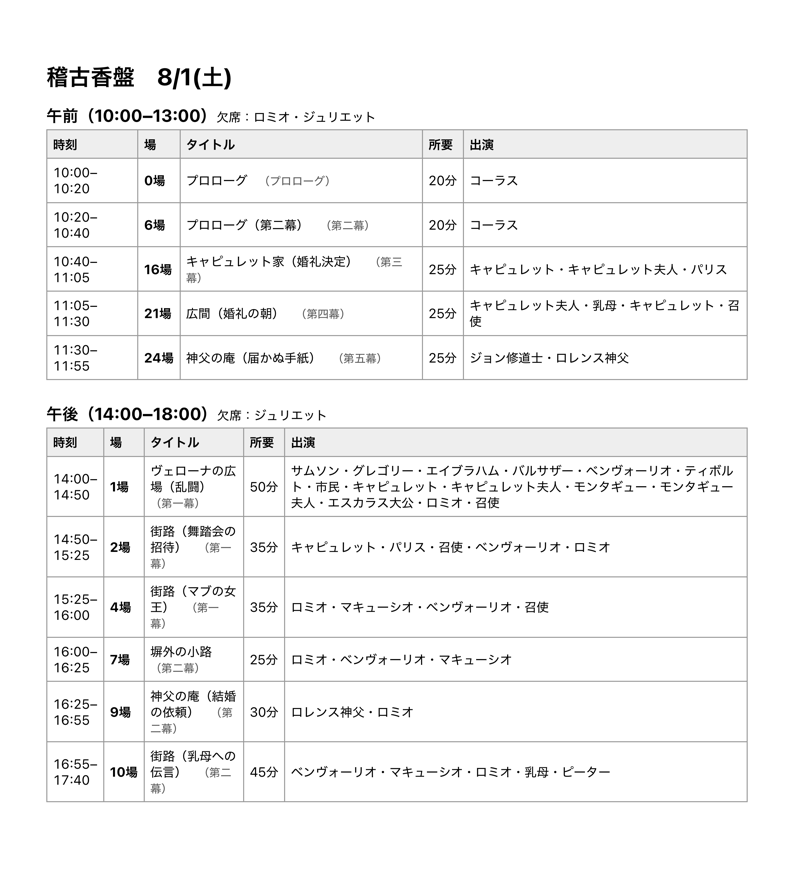
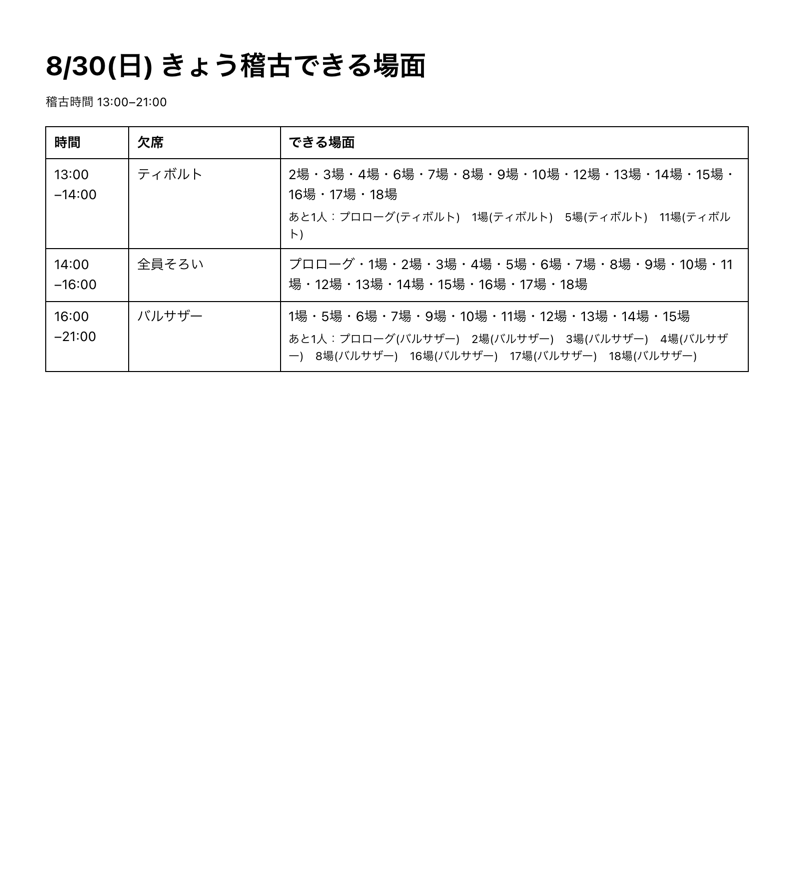
香盤メーカー：中身を2代目（てっぱりボード）に。スクショは全部撮り直し（仮データ）
・紹介ページの中身を V2 に更新（名前は「香盤メーカー」のまま）
  - 冒頭：終日の欠席だけでなく「◯時入り／◯時出し」と時間帯ごとの判定を説明
  - 制作の背景：現場で分かったこと→2代目、の段落を追加
  - STORY の ACTION／RESULT を、時間帯判定・あと1人・進み具合の話に更新
・プレビューを5枚とも撮り直し（スマホ600×1298／PC1200×750／PDF794×878）
  キャスト登録／場面登録／てっぱり表／香盤表／時間帯ごとにできる場面
・⚠ 掲載画像のデータは全部「架空」。実案件の initial-data.json は一切使わず、
  『ロミオとジュリエット』（著作権切れ）の仮データを別ビルドに差し替えて撮影。
  お客様の公演名がUIのプレースホルダに入っていたのも、掲載用ビルドでは差し替え済み。
・ページ末尾に「お客様の声はこちら」ボタンを設置（#voice へ）
・style.css?v=94 → 95（前回のCSS変更でバージョンを上げ忘れており、
  キャッシュを持つ人に旧CSSが当たっていた）
・320px幅で .app-feature / .app-group-cards の列が固定340/320pxのまま溢れていたのを
  minmax(min(340px,100%),1fr) で修正（従来からの不具合）
・全21画面 × 8幅（320〜1920）で はみ出し0・横スクロール0 を実測

diff --git a/index.html b/index.html
@@ -12,7 +12,7 @@
 <link rel="preconnect" href="https://fonts.googleapis.com">
 <link rel="preconnect" href="https://fonts.gstatic.com" crossorigin>
 <link href="https://fonts.googleapis.com/css2?family=Zen+Maru+Gothic:wght@400;500;700&display=swap" rel="stylesheet">
-<link rel="stylesheet" href="style.css?v=94">
+<link rel="stylesheet" href="style.css?v=95">
 <link rel="icon" type="image/png" href="icons/icon-index.png?v=2">
 <link rel="apple-touch-icon" href="icons/icon-index.png?v=2">
 <meta name="apple-mobile-web-app-title" content="つみき">
@@ -474,7 +474,7 @@
           <img class="app-card-ico" src="assets/icon-kouban.png?v=1" alt="香盤メーカー アイコン" width="72" height="72" loading="lazy">
           <span class="app-card-body">
             <span class="app-card-name">香盤メーカー</span>
-            <span class="app-card-desc">稽古のNGから「今日できる場面」を出す</span>
+            <span class="app-card-desc">出られない日から「今できる場面」を出す</span>
             <span class="app-card-tags"><span class="app-tag">スケジュール</span><span class="app-tag">舞台・稽古</span></span>
           </span>
           <span class="app-card-ar" aria-hidden="true">→</span>
@@ -551,29 +551,29 @@
       </div>
 
       <!-- ① 簡潔な紹介 -->
-      <p class="as-about">稽古に来られないメンバーを選ぶと、その日に<strong>「今日できる場面」だけ</strong>を香盤表からすっと抜き出す道具。限られた稽古時間を、段取りで悩まずに使い切るためのアプリです。</p>
+      <p class="as-about">出られない日と、その日の出入り（◯時入り／◯時出し）を入れておくと、<strong>その時間にできる場面だけ</strong>を香盤表からすっと抜き出す道具。「あと1人そろえばできる場面」まで出るので、交渉の当たりどころも分かります。限られた稽古時間を、段取りで悩まずに使い切るためのアプリです。</p>
 
       <!-- 制作の背景 -->
       <p class="as-h">制作の背景<span class="as-h-en">BACKGROUND</span></p>
-      <p class="as-bg">もともと、稽古の現場では「今日は誰が来られないか」が分かるたびに、香盤表とにらめっこして『じゃあ今日はどの場面をやろう』と組み直していました。この照合が毎回じわじわ時間を食い、稽古の頭出しでもたついてしまう。<br><br>その<strong>“段取りのストレス”をなくすために、香盤メーカーは生まれました。</strong>欠席者を選ぶだけで「今日できる場面」が出るなら、迷っていた時間はまるごと稽古に回せる——そう考えて形にした一本です。</p>
+      <p class="as-bg">もともと、稽古の現場では「今日は誰が来られないか」が分かるたびに、香盤表とにらめっこして『じゃあ今日はどの場面をやろう』と組み直していました。この照合が毎回じわじわ時間を食い、稽古の頭出しでもたついてしまう。<br><br>その<strong>“段取りのストレス”をなくすために、香盤メーカーは生まれました。</strong>欠席者を選ぶだけで「今日できる場面」が出るなら、迷っていた時間はまるごと稽古に回せる——そう考えて形にした一本です。<br><br>そのあと実際の稽古場でお使いいただくうちに、分かったことがありました。<strong>休みは終日だけではない</strong>——「◯時入り」「◯時出し」がある。そして<strong>稽古時間を前半・後半で区切ると、できる場面が変わる</strong>。いまの香盤メーカーは、その現場の声をそのまま入れた<strong>2代目</strong>です。出られない日の表（てっぱり表）をアプリの中に持ち、時間帯ごとに判定し、稽古全体の進み具合まで見えるようにしました。</p>
 
       <!-- ② プレビュー（スマホ5＋PC5） -->
       <p class="as-h">プレビュー<span class="as-h-en">PREVIEW</span></p>
       <p class="pv-group-k">スマホ版<span class="pv-group-en">iPhone</span></p>
       <div class="as-shots">
-        <figure class="as-shot"><div class="pv pv-ph"><img class="pv-img" src="assets/shots/kouban-ph-setup.png?v=1" alt="香盤メーカーの役登録画面" loading="lazy" width="600" height="1298"></div><figcaption>役を登録</figcaption></figure>
-        <figure class="as-shot"><div class="pv pv-ph"><img class="pv-img" src="assets/shots/kouban-ph-scene.png?v=1" alt="香盤メーカーの場面登録画面" loading="lazy" width="600" height="1298"></div><figcaption>場面と出る役を登録</figcaption></figure>
-        <figure class="as-shot"><div class="pv pv-ph"><img class="pv-img" src="assets/shots/kouban-ph-days.png?v=1" alt="香盤メーカーの稽古日・時間帯登録画面" loading="lazy" width="600" height="1298"></div><figcaption>稽古日と時間帯を登録</figcaption></figure>
-        <figure class="as-shot"><div class="pv pv-ph"><img class="pv-img" src="assets/shots/kouban-ph-today.png?v=1" alt="香盤メーカーの出欠入力画面" loading="lazy" width="600" height="1298"></div><figcaption>欠席をタップで入力</figcaption></figure>
-        <figure class="as-shot"><div class="pv pv-ph"><img class="pv-img" src="assets/shots/kouban-ph-ban.png?v=1" alt="香盤メーカーの香盤自動生成画面" loading="lazy" width="600" height="1298"></div><figcaption>香盤を自動生成</figcaption></figure>
+        <figure class="as-shot"><div class="pv pv-ph"><img class="pv-img" src="assets/shots/kouban-ph-cast.png?v=2" alt="香盤メーカーのキャスト（役）の登録画面" loading="lazy" width="600" height="1298"></div><figcaption>キャストを登録</figcaption></figure>
+        <figure class="as-shot"><div class="pv pv-ph"><img class="pv-img" src="assets/shots/kouban-ph-scene.png?v=2" alt="香盤メーカーの台本の場面の登録画面" loading="lazy" width="600" height="1298"></div><figcaption>台本の場面を登録</figcaption></figure>
+        <figure class="as-shot"><div class="pv pv-ph"><img class="pv-img" src="assets/shots/kouban-ph-board.png?v=2" alt="香盤メーカーのてっぱり表（出られない日）の入力画面" loading="lazy" width="600" height="1298"></div><figcaption>出られない日を、表に入れる</figcaption></figure>
+        <figure class="as-shot"><div class="pv pv-ph"><img class="pv-img" src="assets/shots/kouban-ph-kouban.png?v=2" alt="香盤メーカーの香盤表（場面ごとの出番）の画面" loading="lazy" width="600" height="1298"></div><figcaption>今日できる場面が、色でわかる</figcaption></figure>
+        <figure class="as-shot"><div class="pv pv-ph"><img class="pv-img" src="assets/shots/kouban-ph-day.png?v=2" alt="香盤メーカーの時間帯ごとにできる場面を出した画面" loading="lazy" width="600" height="1298"></div><figcaption>時間帯ごとに、できる場面を出す</figcaption></figure>
       </div>
       <p class="pv-group-k">PC版<span class="pv-group-en">Desktop</span></p>
       <div class="as-shots">
-        <figure class="as-shot as-shot-pc"><div class="pv pv-pc"><img class="pv-img" src="assets/shots/kouban-pc-setup.png?v=1" alt="香盤メーカー PC版の役登録画面" loading="lazy" width="1200" height="750"></div><figcaption>役を登録</figcaption></figure>
-        <figure class="as-shot as-shot-pc"><div class="pv pv-pc"><img class="pv-img" src="assets/shots/kouban-pc-scene.png?v=1" alt="香盤メーカー PC版の場面登録画面" loading="lazy" width="1200" height="750"></div><figcaption>場面と出る役を登録</figcaption></figure>
-        <figure class="as-shot as-shot-pc"><div class="pv pv-pc"><img class="pv-img" src="assets/shots/kouban-pc-days.png?v=1" alt="香盤メーカー PC版の稽古日・時間帯登録画面" loading="lazy" width="1200" height="750"></div><figcaption>稽古日と時間帯を登録</figcaption></figure>
-        <figure class="as-shot as-shot-pc"><div class="pv pv-pc"><img class="pv-img" src="assets/shots/kouban-pc-today.png?v=1" alt="香盤メーカー PC版の出欠入力画面" loading="lazy" width="1200" height="750"></div><figcaption>欠席をタップで入力</figcaption></figure>
-        <figure class="as-shot as-shot-pc"><div class="pv pv-pc"><img class="pv-img" src="assets/shots/kouban-pc-ban.png?v=1" alt="香盤メーカー PC版の香盤自動生成画面" loading="lazy" width="1200" height="750"></div><figcaption>香盤を自動生成</figcaption></figure>
+        <figure class="as-shot as-shot-pc"><div class="pv pv-pc"><img class="pv-img" src="assets/shots/kouban-pc-cast.png?v=2" alt="香盤メーカー PC版のキャスト（役）の登録画面" loading="lazy" width="1200" height="750"></div><figcaption>キャストを登録</figcaption></figure>
+        <figure class="as-shot as-shot-pc"><div class="pv pv-pc"><img class="pv-img" src="assets/shots/kouban-pc-scene.png?v=2" alt="香盤メーカー PC版の台本の場面の登録画面" loading="lazy" width="1200" height="750"></div><figcaption>台本の場面を登録</figcaption></figure>
+        <figure class="as-shot as-shot-pc"><div class="pv pv-pc"><img class="pv-img" src="assets/shots/kouban-pc-board.png?v=2" alt="香盤メーカー PC版のてっぱり表（出られない日）の入力画面" loading="lazy" width="1200" height="750"></div><figcaption>出られない日を、表に入れる</figcaption></figure>
+        <figure class="as-shot as-shot-pc"><div class="pv pv-pc"><img class="pv-img" src="assets/shots/kouban-pc-kouban.png?v=2" alt="香盤メーカー PC版の香盤表（場面ごとの出番）の画面" loading="lazy" width="1200" height="750"></div><figcaption>今日できる場面が、色でわかる</figcaption></figure>
+        <figure class="as-shot as-shot-pc"><div class="pv pv-pc"><img class="pv-img" src="assets/shots/kouban-pc-day.png?v=2" alt="香盤メーカー PC版の時間帯ごとにできる場面を出した画面" loading="lazy" width="1200" height="750"></div><figcaption>時間帯ごとに、できる場面を出す</figcaption></figure>
       </div>
       <p class="note">実際の「香盤メーカー」の画面です（サンプルは『ロミオとジュリエット』）。</p>
 
@@ -581,11 +581,11 @@
       <p class="pv-group-k">書き出したPDF<span class="pv-group-en">OUTPUT</span></p>
       <div class="as-shots as-shots-solo">
         <figure class="as-shot as-shot-doc">
-          <div class="pv pv-doc pv-doc-kouban"><img class="pv-img" src="assets/shots/kouban-doc.png?v=1" alt="香盤メーカーで書き出した稽古香盤（PDF・サンプル）" loading="lazy" width="794" height="878"></div>
-          <figcaption>タップで拡大：稽古香盤（A4・時間帯ごとの場面と出演）</figcaption>
+          <div class="pv pv-doc pv-doc-kouban"><img class="pv-img" src="assets/shots/kouban-doc.png?v=2" alt="香盤メーカーで書き出した「きょう稽古できる場面」（PDF・サンプル）" loading="lazy" width="794" height="878"></div>
+          <figcaption>タップで拡大：きょう稽古できる場面（A4・稽古場に貼り出す用）</figcaption>
         </figure>
       </div>
-      <p class="note">「印刷／PDFで書き出し」を押すと、この香盤がそのまま1枚に。時間帯ごとに場面・所要時間・出演者、その回に来られない人（欠席）まで並びます。掲載はサンプル『ロミオとジュリエット』です。</p>
+      <p class="note">「印刷（貼り出し用）」を押すと、その日のぶんがそのまま1枚に。時間帯ごとに、欠席者・できる場面・あと1人でできる場面まで並びます。稽古場に貼っておけば、全員が同じものを見られます。掲載はサンプル『ロミオとジュリエット』です。</p>
 
       <!-- ③ STAR形式の詳しい紹介 -->
       <p class="as-h">くわしく<span class="as-h-en">STORY</span></p>
@@ -600,11 +600,11 @@
         </div>
         <div class="star-row">
           <p class="star-k">アプリがすること<span class="star-en">ACTION</span></p>
-          <p class="star-v">各場面の出演者（香盤表）を一度だけ登録。あとは欠席者を選ぶだけで、<strong>全員そろう＝今日できる場面</strong>を自動で抜き出して並べます。</p>
+          <p class="star-v">台本の場面と、そこに出る役（香盤）を一度だけ登録。あとは出られない日と「◯時入り／◯時出し」を入れるだけ。稽古時間を時間帯で区切って、<strong>その時間に全員そろう＝できる場面</strong>を自動で並べます。「あと1人そろえばできる場面」も、誰が足りないかと一緒に出ます。</p>
         </div>
         <div class="star-row is-result">
           <p class="star-k">こう変わる<span class="star-en">RESULT</span></p>
-          <p class="star-v">稽古の段取りが数秒で決まり、限られた時間を「今日できること」に集中できる。<strong>2026年夏の本多劇場公演で、実際にお使いいただきました。</strong></p>
+          <p class="star-v">稽古の段取りが数秒で決まり、限られた時間を「今日できること」に集中できる。先の稽古日まで並ぶので、<strong>その日になってから組み直すのではなく、先に最後まで組んでおける</strong>。全何場面のうち、できた／これからできる／このままだとできない、も一目で分かります。<strong>2026年夏の本多劇場公演で、実際にお使いいただきました。</strong></p>
         </div>
       </div>
 
@@ -618,6 +618,13 @@
           <div class="dl-row"><div class="dl-k">お渡し</div><div class="dl-v">プロダクトキー（合言葉）で解錠してお使いいただけます</div></div>
           <div class="dl-row"><div class="dl-k">本体</div><div class="dl-v"><a href="https://tools.tsumiki-apps.com/kouban-pro.html" target="_blank" rel="noopener">tools.tsumiki-apps.com/kouban-pro.html</a></div></div>
         </div>
+      </div>
+
+      <!-- ページの最後：実際にお使いいただいた方の声へ渡す -->
+      <div class="cta-wrap">
+        <p class="cta-lead">この香盤メーカーは、2026年夏の本多劇場公演で実際にお使いいただきました。演出助手の方から伺ったお話を、そのまま載せています。</p>
+        <a class="cta" data-go="voice" href="#">お客様の声はこちら<span class="cta-ar">→</span></a>
+        <p class="note">「こういうの、うちにも欲しい」と思ったら。あなたの“ちょっと困った”に合わせて、専用のアプリをお作りします。→ <a data-go="hearing" href="#">無料で相談する</a></p>
       </div>
     </div>
   </section>

diff --git a/style.css b/style.css
@@ -925,7 +925,8 @@ body.on-dark .tb-brand{color:#F4F2EE;
 /* カードは横長1列だと desktop(容器860〜960px)で右に空白が余るため、
    容器幅に応じて自動で段組み（スマホ=1列 / desktop=2列）にして横を使い切る。 */
 .app-feature{margin-top:18px; display:grid; gap:12px;
-  grid-template-columns:repeat(auto-fill, minmax(340px, 1fr));}
+  /* min() を挟まないと、320px幅で列が340pxのまま溢れる（2026-08-30 修正） */
+  grid-template-columns:repeat(auto-fill, minmax(min(340px, 100%), 1fr));}
 .app-card{display:flex; align-items:center; gap:14px; text-decoration:none; color:var(--ink);
   background:var(--card); border:1px solid var(--line); border-radius:18px; padding:14px 16px;
   box-shadow:0 6px 18px rgba(36,35,33,.06); transition:border-color .15s ease, transform .15s ease;}
@@ -947,7 +948,7 @@ body.on-dark .tb-brand{color:#F4F2EE;
   letter-spacing:.04em; color:var(--ink);}
 .app-group-en{font-size:9.5px; letter-spacing:.2em; color:var(--sub); font-weight:600;}
 .app-group-note{font-size:12px; color:var(--sub); line-height:1.7; margin:6px 0 12px;}
-.app-group-cards{display:grid; gap:12px; grid-template-columns:repeat(auto-fill, minmax(320px, 1fr));}
+.app-group-cards{display:grid; gap:12px; grid-template-columns:repeat(auto-fill, minmax(min(320px, 100%), 1fr));}
 /* カード名の横につく「労働者用／管理者用」バッジ */
 .app-card-role{display:inline-block; font-size:10.5px; font-weight:700; letter-spacing:.04em;
   color:var(--sub); background:var(--paper); border:1px solid var(--line);
